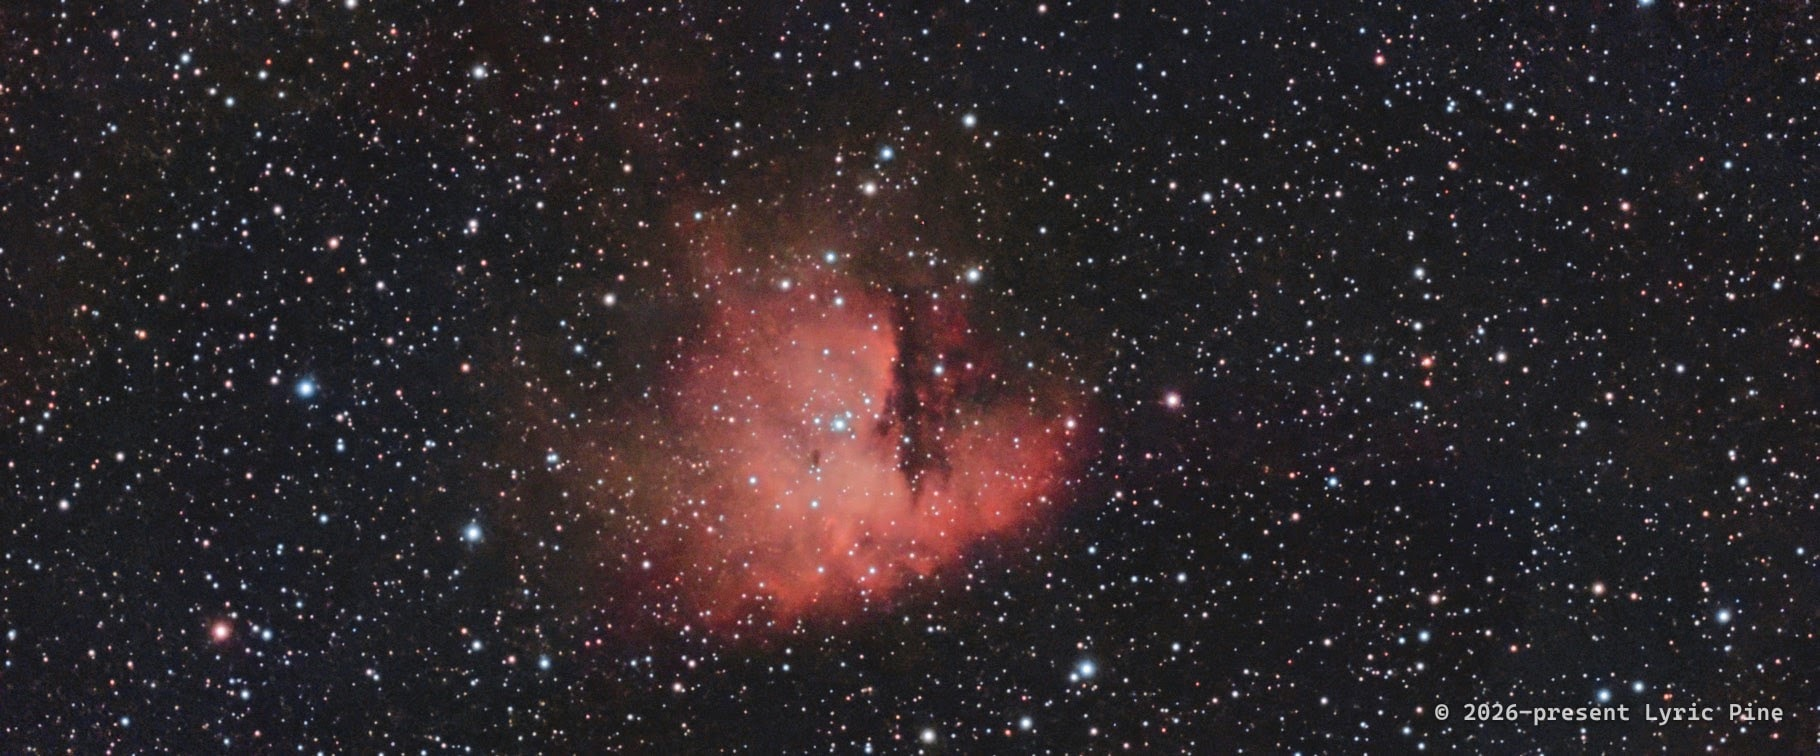
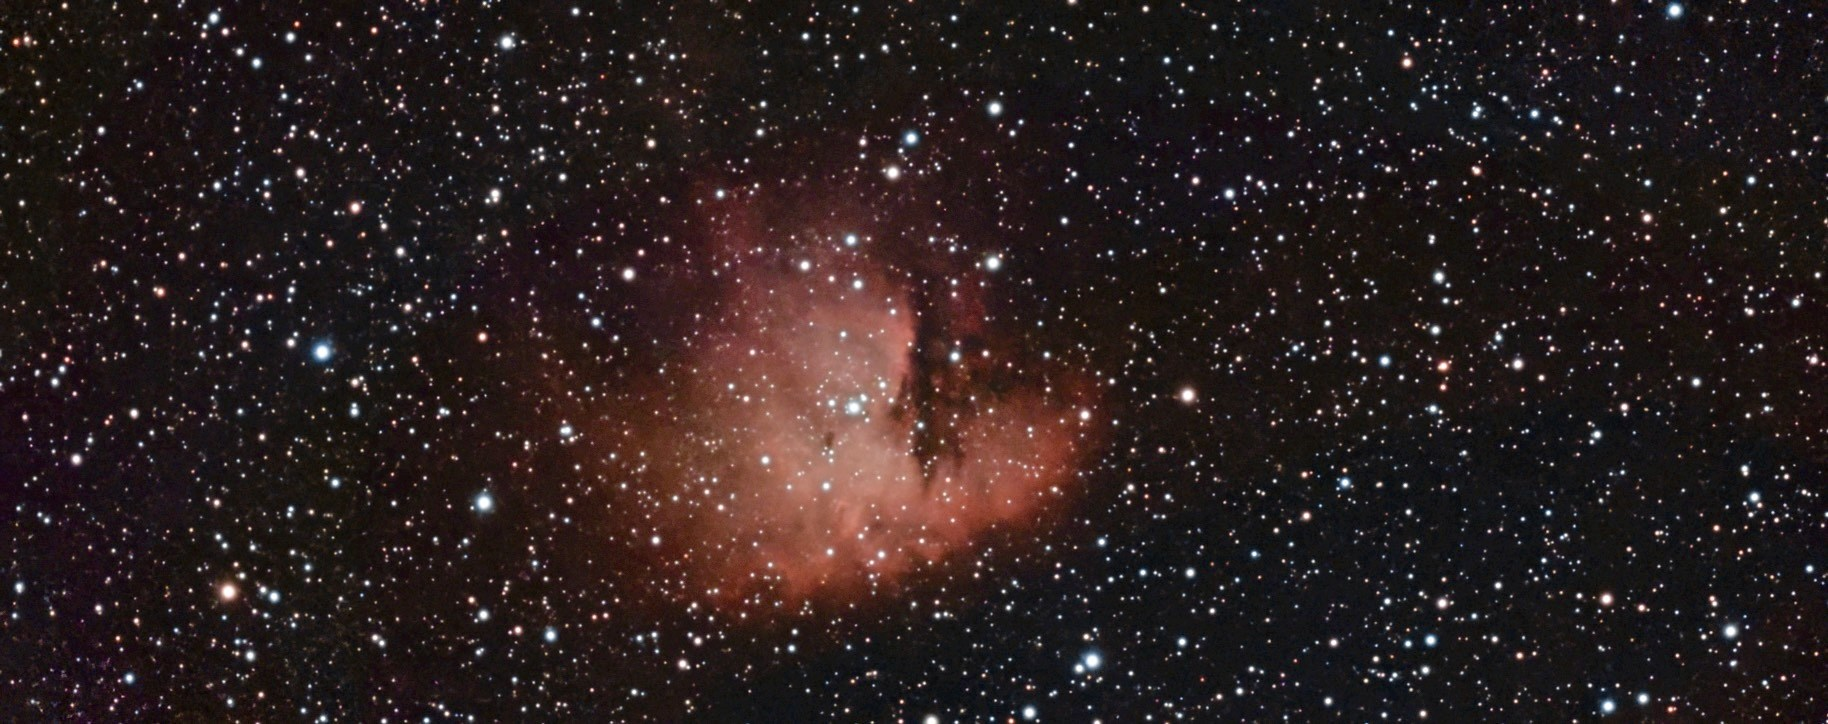
Replace Pacman gallery stack
Use the supplied Pacman Nebula image as the gallery's single capture.

Changed region(s): [[0.0, 0.0, 1.0, 1.0], [0.5538, 0.0912, 0.5846, 0.1215]]

diff --git a/src/lib/captures.ts b/src/lib/captures.ts
@@ -246,19 +246,10 @@ export const captures: Capture[] = [
     description:
       'A glowing emission nebula roughly 9,500 light-years away, sculpted by young stars and dark dust lanes into its familiar arcade-game silhouette.',
     alt: 'The Pacman Nebula (NGC 281): a glowing red emission nebula crossed by dark dust lanes in a dense star field.',
-    image: 'media/captures/ngc-281-2.jpg',
-    width: 1800,
-    height: 772,
+    image: 'media/captures/ngc-281.jpg',
+    width: 1828,
+    height: 724,
     capturedOn: '2026-08-27',
-    additionalShots: [
-      {
-        alt: 'The Pacman Nebula (NGC 281): red emission clouds divided by dark dust lanes amid a dense field of stars.',
-        image: 'media/captures/ngc-281.jpg',
-        width: 1820,
-        height: 756,
-        capturedOn: '2026-08-25',
-      },
-    ],
     kind: 'image',
   },
   {
